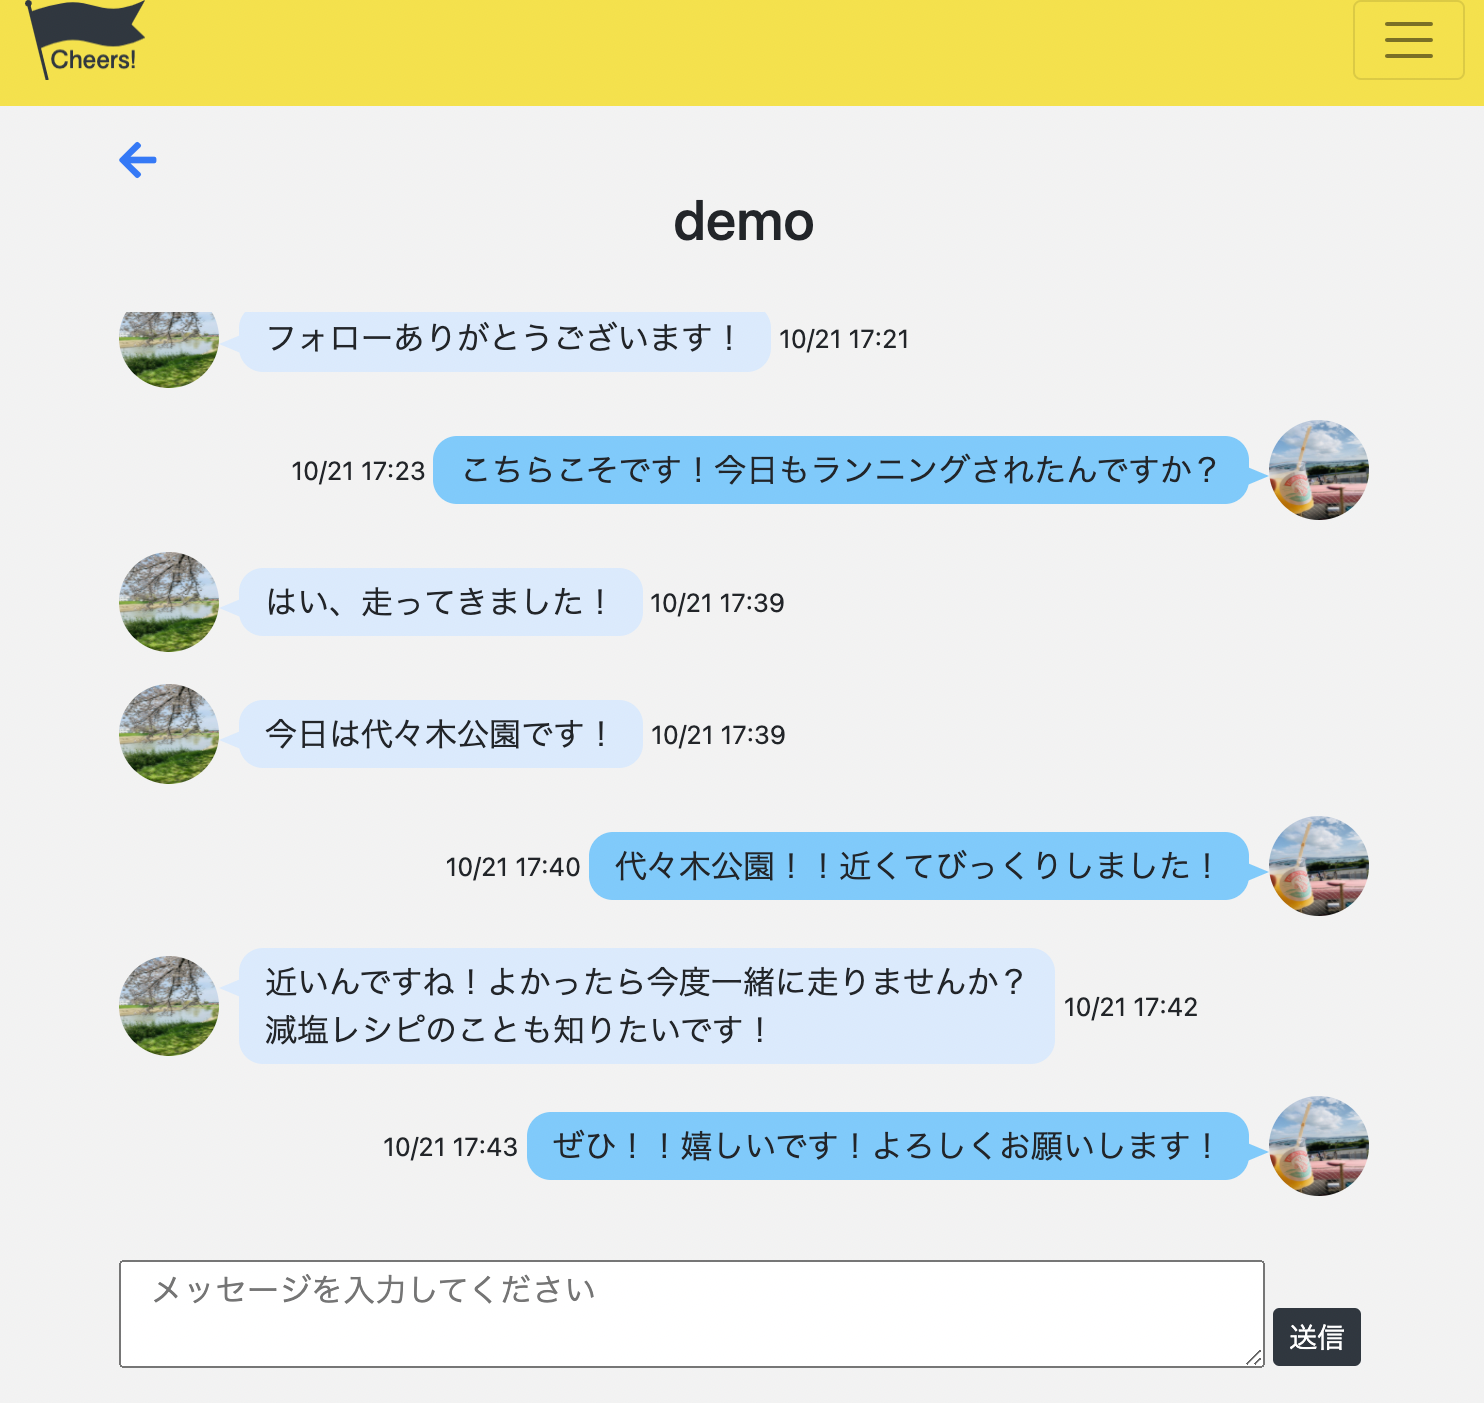
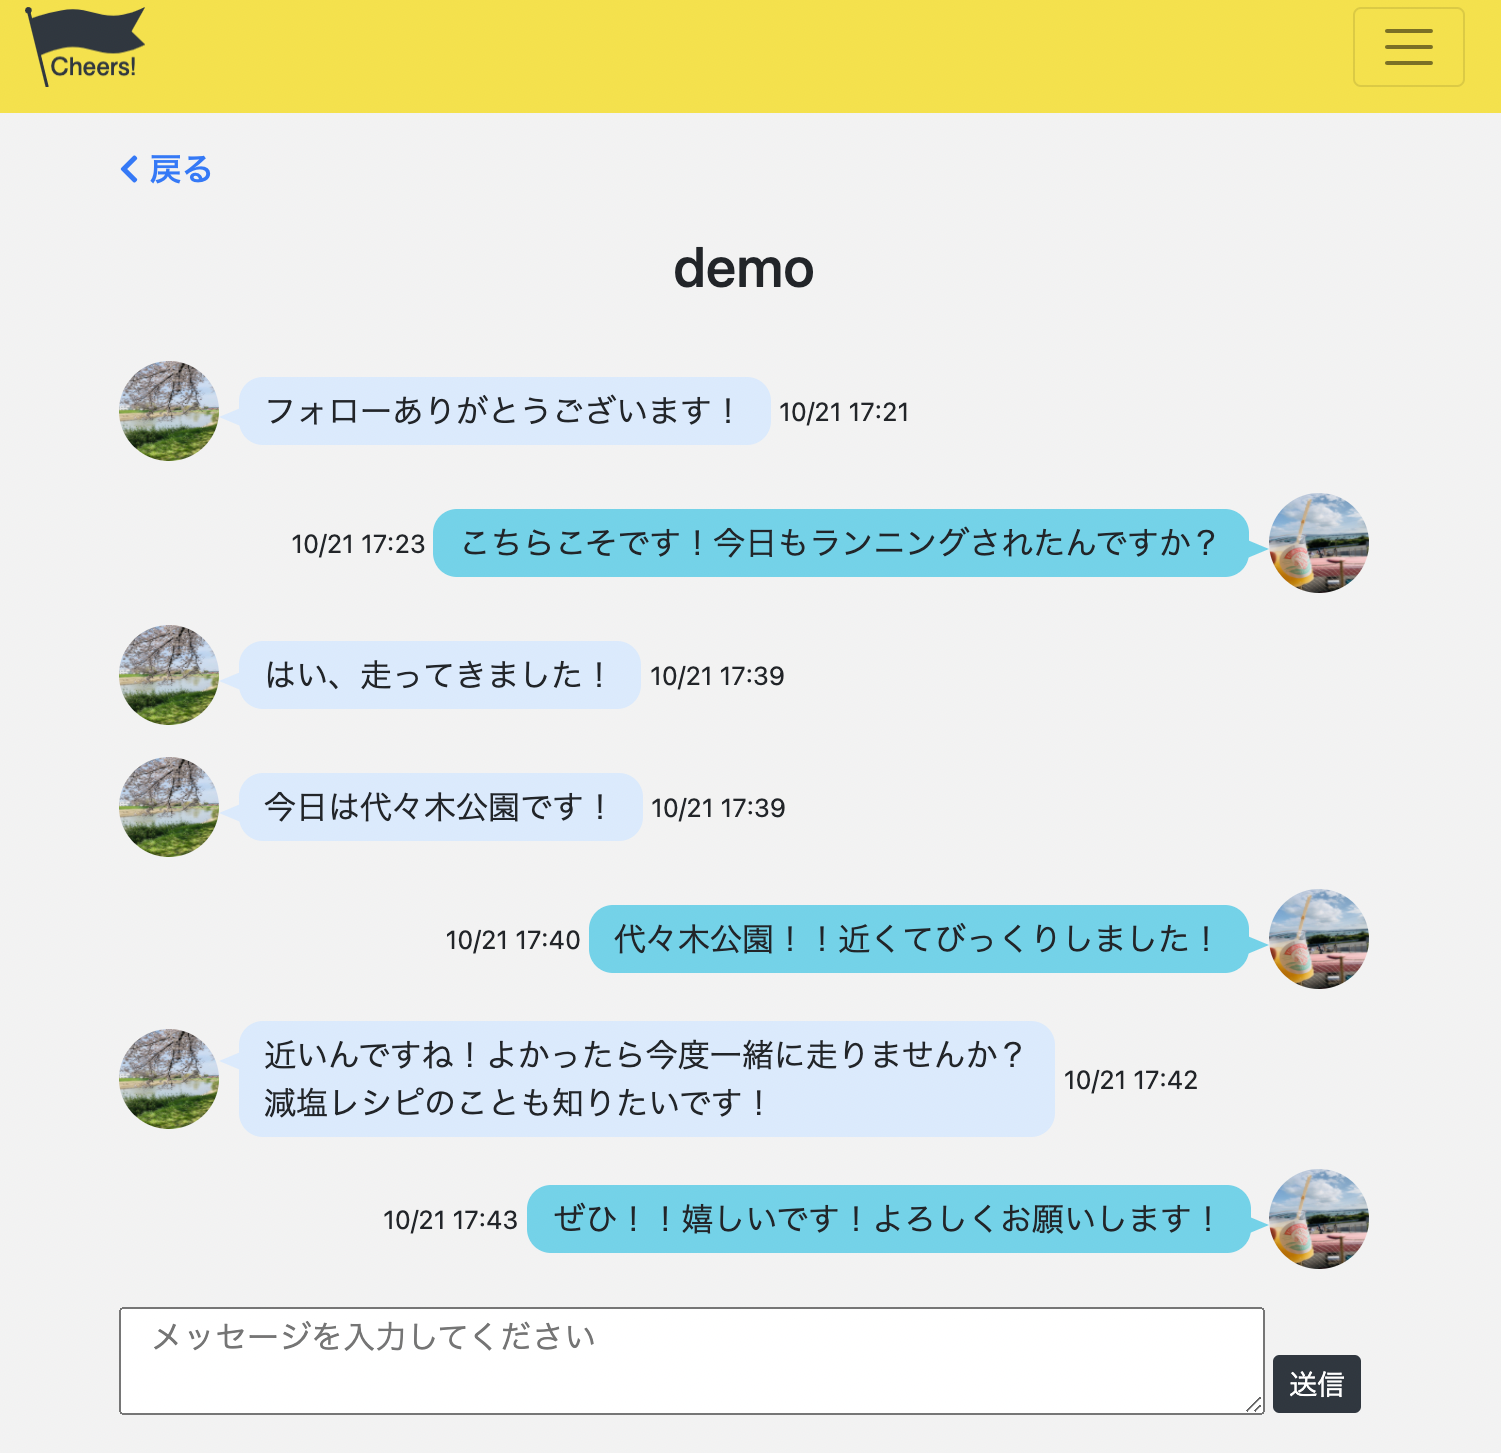
チャットの背景色変更、トップ画像差し替え

diff --git a/app/assets/stylesheets/chats.scss b/app/assets/stylesheets/chats.scss
@@ -28,7 +28,7 @@
   margin: 0 10px 0 0;
   padding: 5px 13px;
   border-radius: 12px;
-  background: #66CCFF;
+  background: #4ad5eb;
   &:after {
     content: "";
     display: inline-block;
@@ -36,6 +36,6 @@
     top: 15px;
     right: -15px;
     border: 5px solid transparent;
-    border-left: 12px solid #66CCFF;
+    border-left: 12px solid #4ad5eb;
   }
 }

diff --git a/app/assets/stylesheets/application.scss b/app/assets/stylesheets/application.scss
@@ -45,7 +45,7 @@ h3 {
 #notice {
   text-align: center;
   color: #2e3740;
-  background-color: lightBlue;
+  background-color: #d7ebfe;
 }
 
 .navbar-light .navbar-nav .nav-link {
